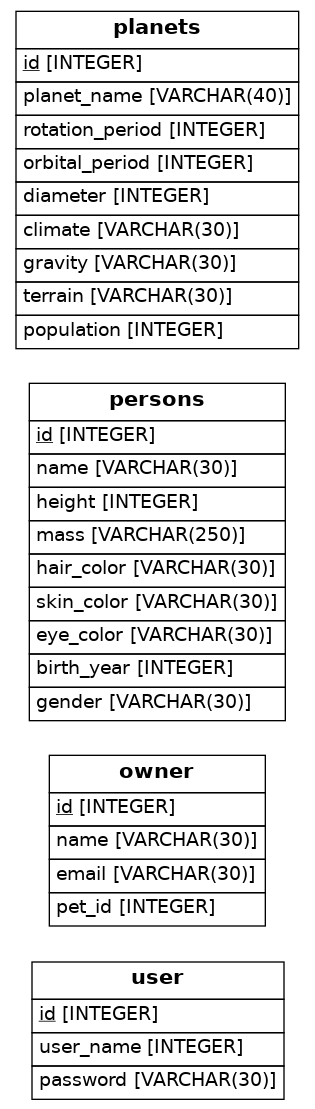
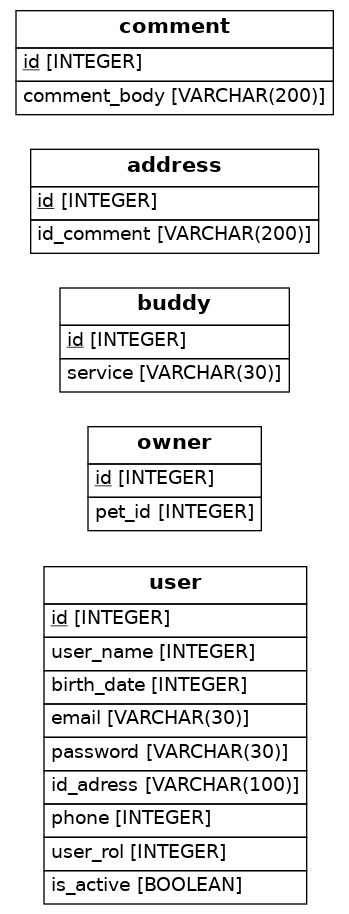
casi listo

Changed region(s): [[0.0286, 0.0, 0.9714, 1.0]]

diff --git a/src/models.py b/src/models.py
@@ -1,6 +1,6 @@
 import os
 import sys
-from sqlalchemy import Column, ForeignKey, Integer, String
+from sqlalchemy import Column, ForeignKey, Integer, String, Boolean
 from sqlalchemy.ext.declarative import declarative_base
 from sqlalchemy.orm import relationship
 from sqlalchemy import create_engine
@@ -15,41 +15,37 @@ class User(Base):
     __tablename__ = 'user'
     id = Column(Integer, primary_key=True)
     user_name = Column(Integer, nullable=False)
+    birth_date = Column(Integer,unique=True, nullable=False)
+    email = Column(String(30),unique=True, nullable=False)
     password = Column(String(30))
-    
-    
+    id_adress = Column(String(100), unique = False, nullable = False)
+    phone = Column(Integer,unique=True, nullable=False)
+    user_rol = Column(Integer, unique = False, nullable = False)
+    is_active = Column(Boolean(), unique=False, nullable=False)
+
+
 
 class Owner(Base):
     __tablename__ = 'owner'
     id = Column(Integer, primary_key=True)
-    name = Column(String(30))
-    email = Column(String(30), unique=True, nullable=False)
     pet_id = Column(Integer)
+
+class Buddy(Base):
+    __tablename__ = 'buddy'
+    id = Column(Integer, primary_key=True)
+    service = Column(String(30))
    
     
-class Persons(Base):
-    __tablename__ = 'persons'
+class Address(Base):
+    __tablename__ = 'address'
     id = Column(Integer, primary_key=True)
-    name = Column(String(30))
-    height = Column(Integer)
-    mass = Column(String(250))
-    hair_color = Column(String(30))
-    skin_color = Column(String(30))
-    eye_color = Column(String(30))
-    birth_year = Column(Integer)
-    gender = Column(String(30))
+    id_comment = Column(String(200))
+    
 
-class Planets(Base):
-    __tablename__ = 'planets' 
+class Comment(Base):
+    __tablename__ = 'comment'
     id = Column(Integer, primary_key=True)
-    planet_name = Column(String(40))
-    rotation_period = Column(Integer)
-    orbital_period = Column(Integer)
-    diameter = Column(Integer)
-    climate = Column(String(30))
-    gravity = Column(String(30))
-    terrain = Column(String(30))
-    population = Column(Integer)
+    comment_body= Column(String(200))
 
 
     def to_dict(self):
